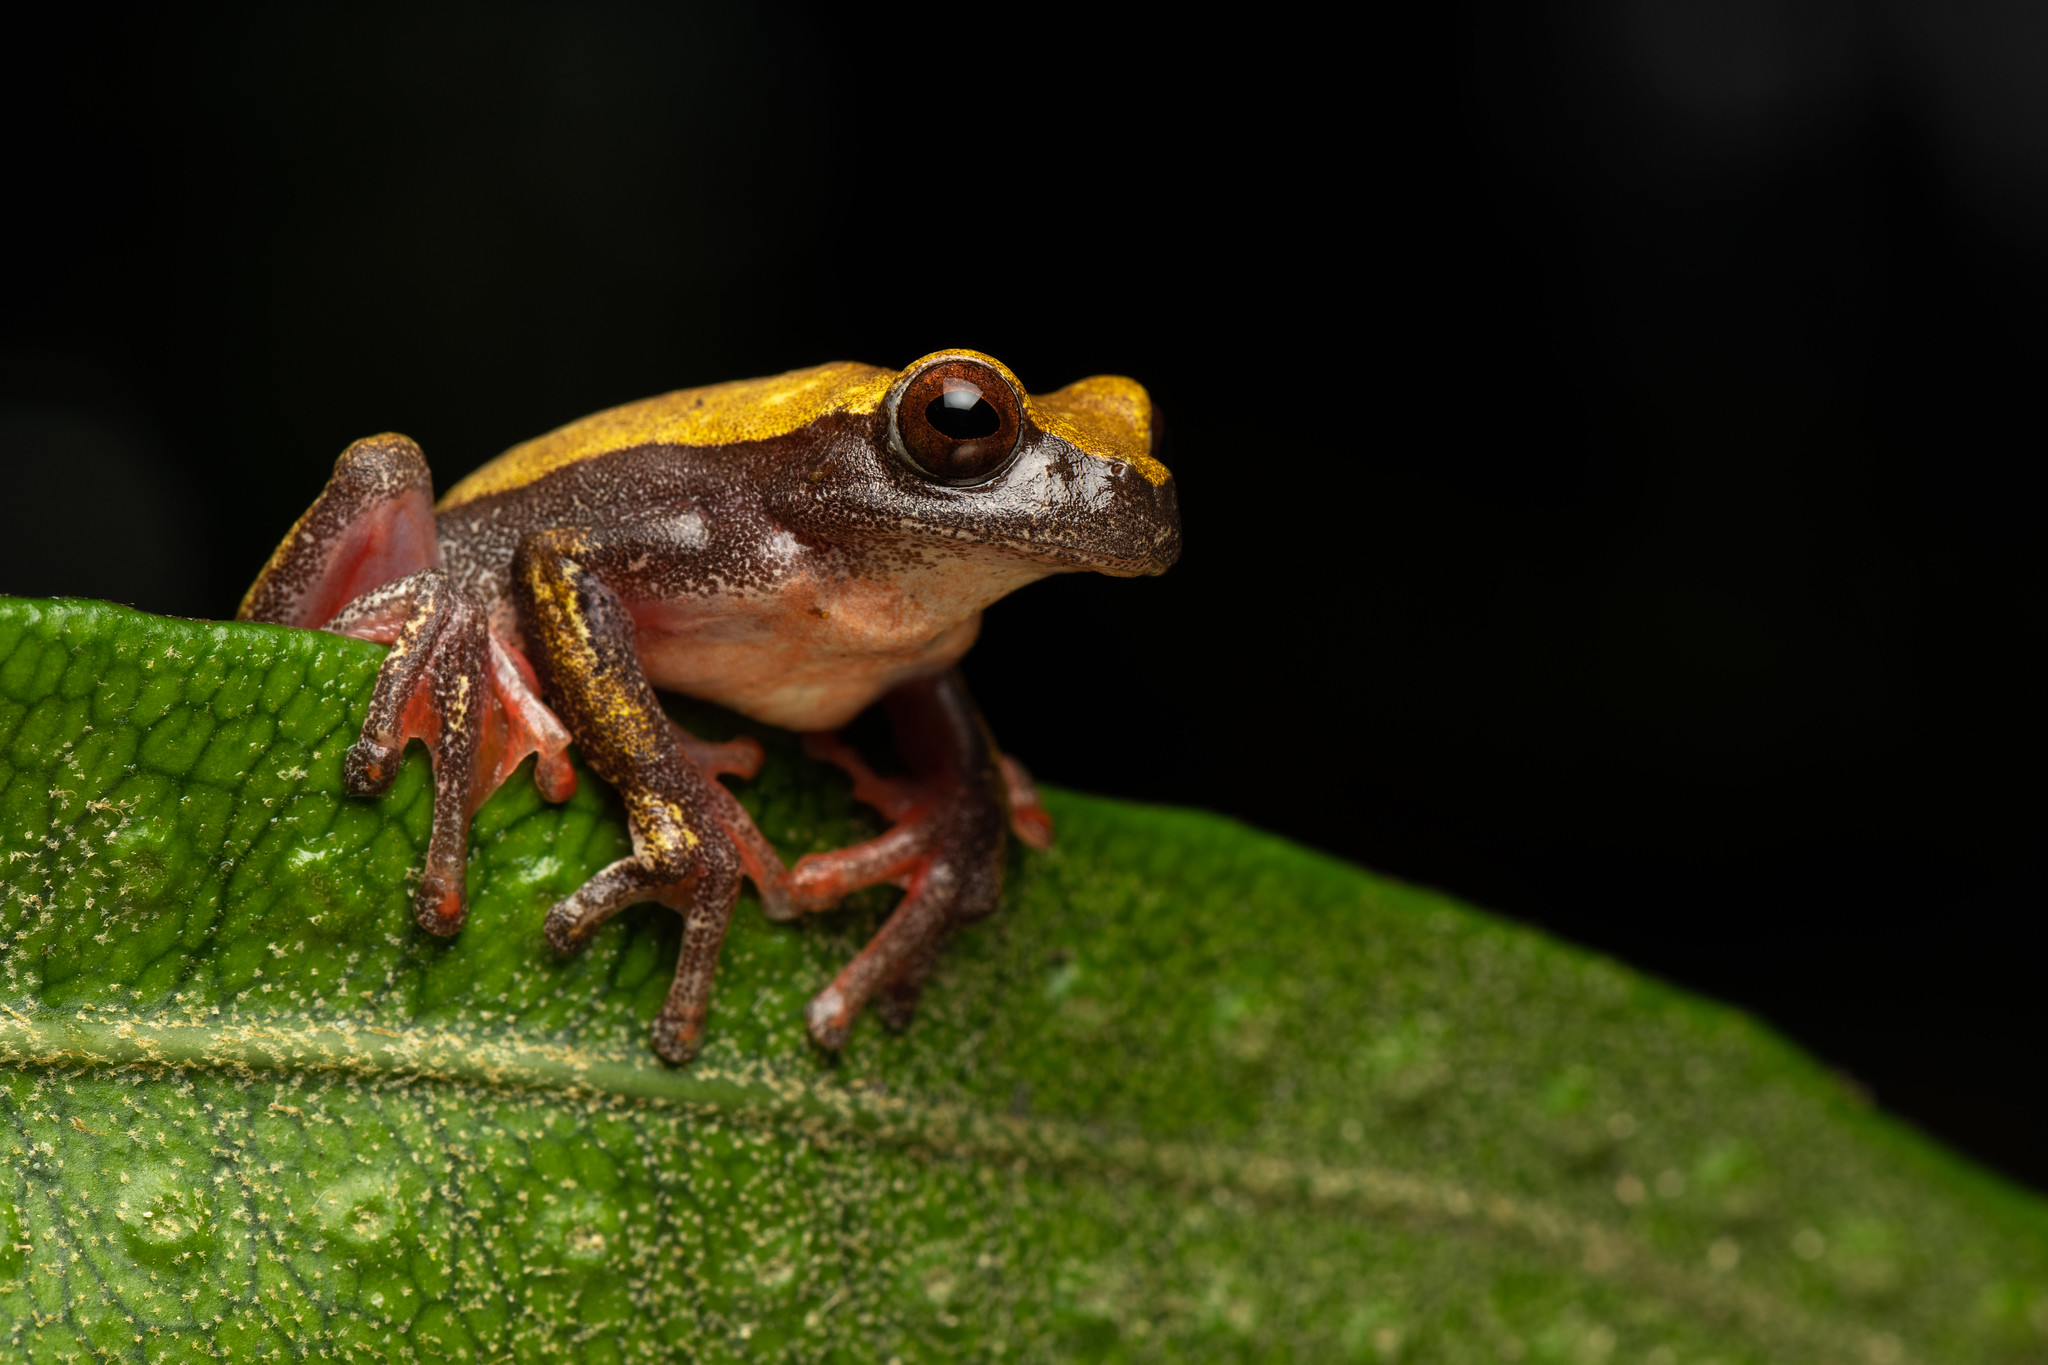
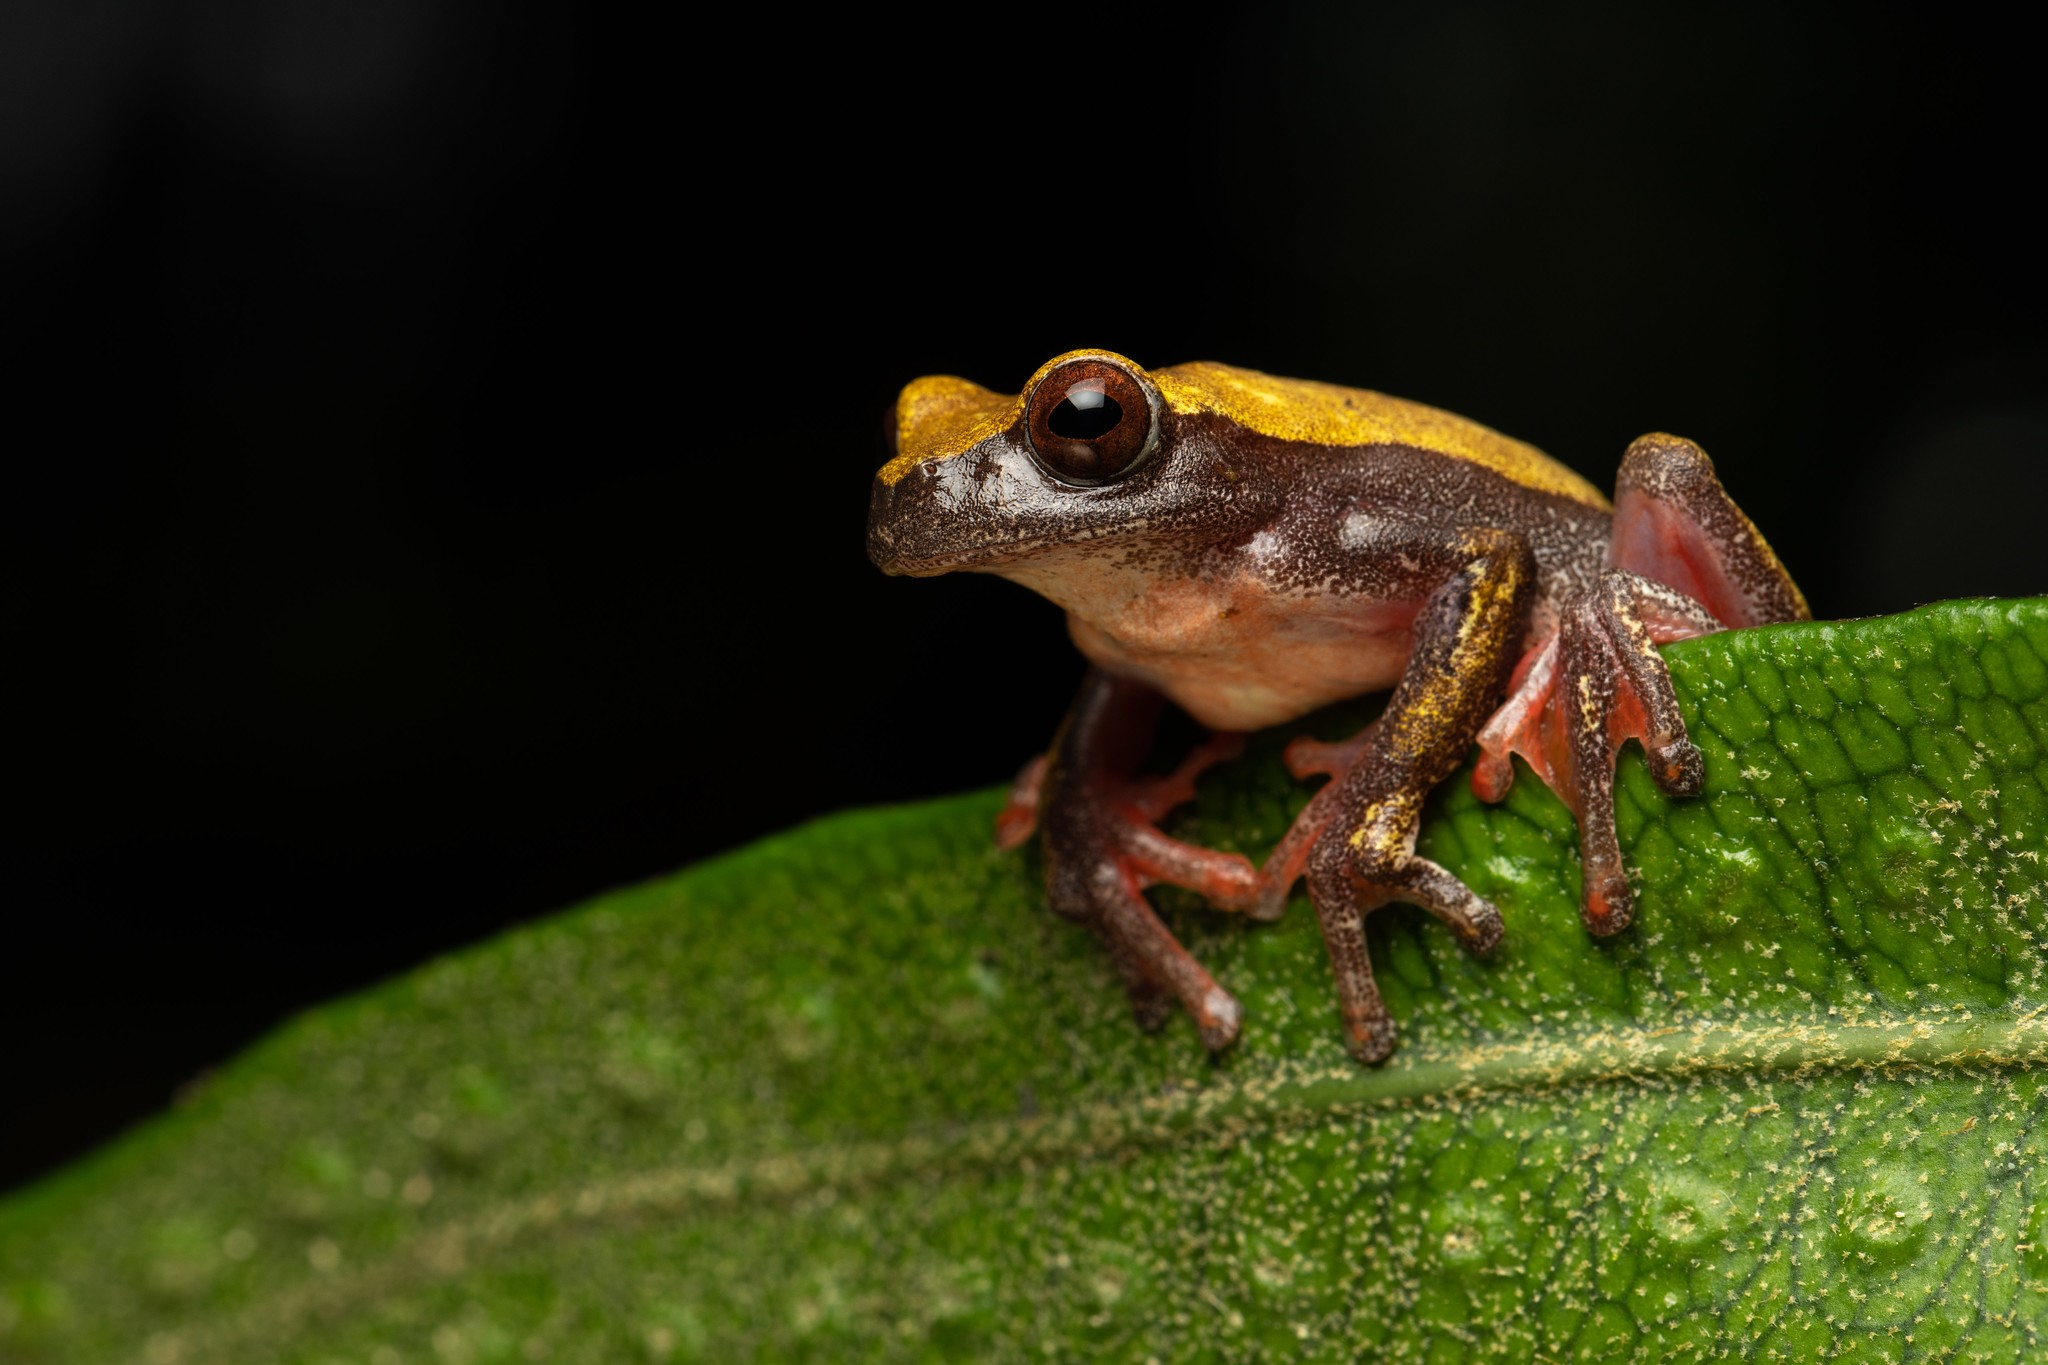
dz

diff --git a/content/home/demo.md b/content/home/demo.md
@@ -17,9 +17,9 @@ subtitle: "***Octopons vulgaris***"
 
 
 design:
-  columns: "2"
+  columns: "1"
   background:
-    image: frog2.jpg
+    image: frog.jpg
     image_darken: 0.4
     image_size: cover 
     text_color_light: true
